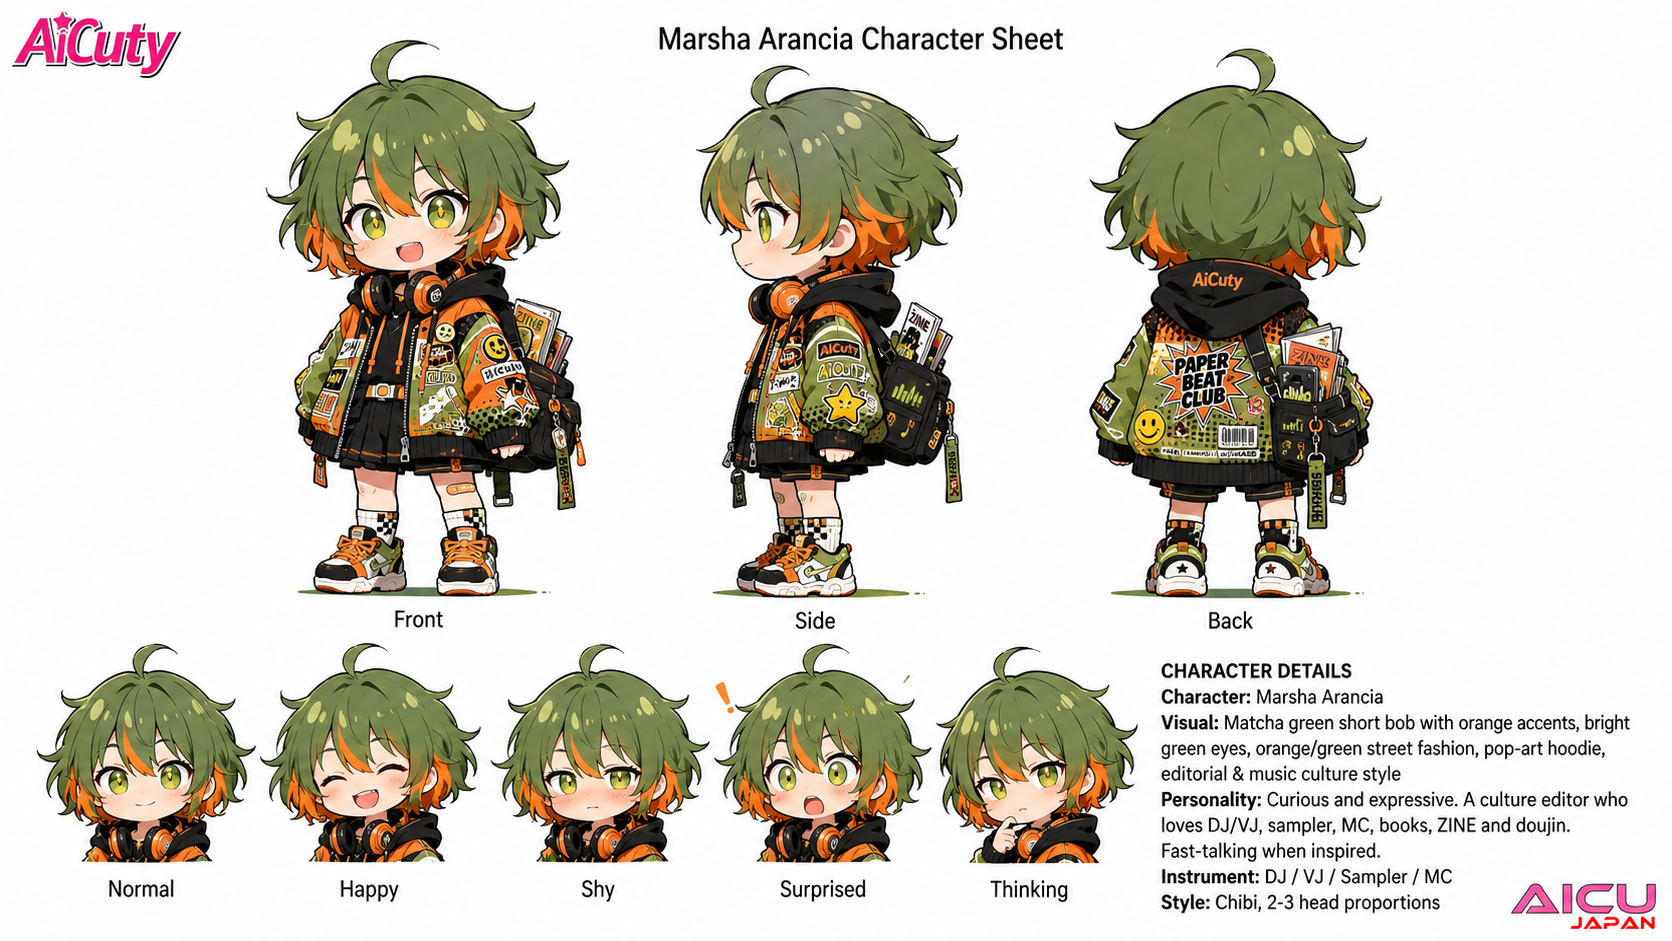
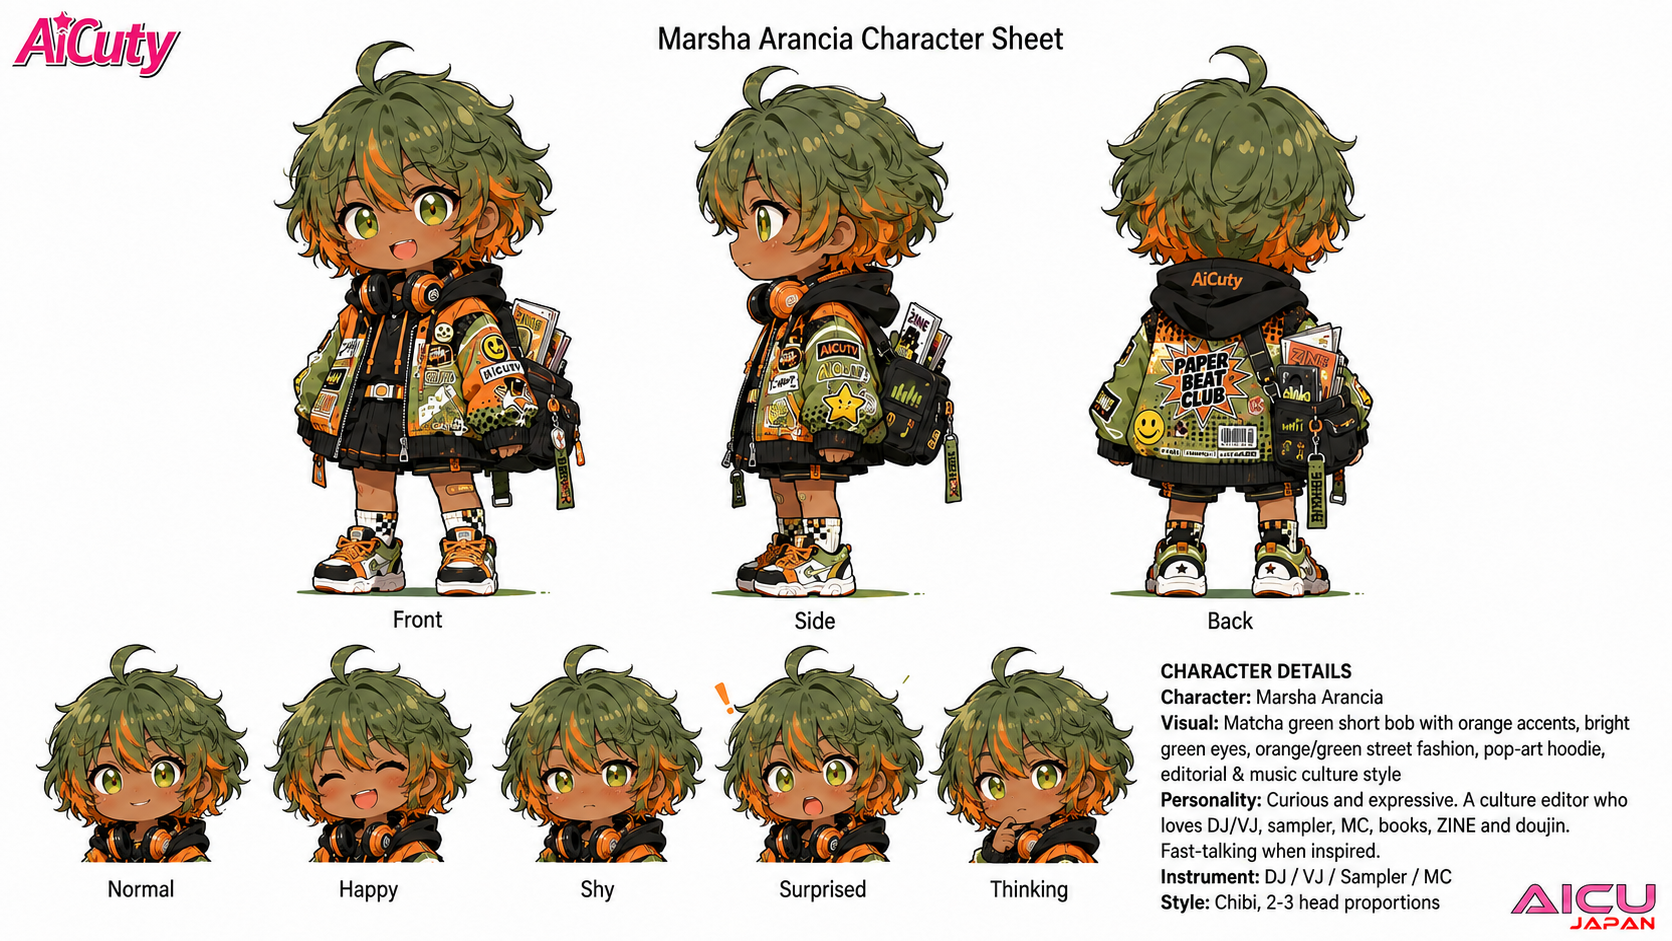
docs: Marsha の出自をイタリア系コロンビア人に更新、決め台詞を「特集」に
award-aicu/docs/marsha-arancia-design.md（Design Source of Truth）と
AiCuty 側の記述が乖離していたため同期。

設定の更新:
- 出自: 「イタリア系の家族を持つ、日本育ち」→「イタリア系コロンビア人。
  コロンビア・ボゴタ生まれ、日本育ち」。伊語由来の Arancia／Clementina／
  ARANCIA PRESS はイタリア系として維持され矛盾しない
- 決め台詞: 「それ、特集にしたいネ！」で確定（英 "Let's make it a special
  issue, hein?" ／伊 "...uno speciale, eh?" ／西 "...un especial, ¿eh?"）。
  従来の「トビラにしたいネ！」は ZINE・書籍文脈のバリエーションとして存続。
  語尾「ネ」を日本語「ね」＋伊 eh?/no?＋西 ¿eh?/¿no? の三重掛けに再定義
- 兼務を追加: AICU media 国際編集インターン／International AI Creator
  Award 公式ナビゲーター
- 外見年齢: ヤングアダルト（25歳前後）
- 公式ショートプロフィールを新文面に差し替え

画像:
- MarshaArancia.png を褐色肌の修正版に差し替え（明るい肌だった旧版を解消）
- MarshaArancia-FullBody.png（等身大シート・カラーパレット付き）を追加
- MarshaArancia2.png → MarshaArancia-Original.png にリネーム（原案受賞作）
- 重複していた MarshaAranciaCS2.png を削除
- img/AiCuty-6.png, img/AiCuty-6-peace.png（6人体制の集合ビジュアル）を追加

diff --git a/MarshaArancia/REVIEW.md b/MarshaArancia/REVIEW.md
@@ -37,8 +37,12 @@
 - [x] **コードネーム「Matcha Orange」** → **今回のみの開発用作業名と決定**（2026-08-07）。命名決定前の作業用呼称であり、メンバー共通の設定項目にはせず、既存5人への遡及付与も行わない。名称は原案作者 **抹茶オレンジ さん**（[@MATCHA_ORANGE_](https://x.com/MATCHA_ORANGE_)）に由来する。
 - [x] **クレジット** → 原案キャラクターデザインは抹茶オレンジさん（作品名「本を買った帰り道」、[C2606 ざすこ賞（道草雑草子 選）](https://cert.aicu.ai/v?id=C2606-3)受賞）として記載（2026-08-09）。
 - [x] **Marsha のちびキャラ版シート画像の帰属** → **「AICU Draft Edition」と表記する**（2026-08-10 決定）。既存5人のちびキャラ版は TORAKO さん名義だが、[MarshaArancia.png](MarshaArancia.png) は**作者確認中**のため暫定表記とする。作者判明後にクレジットを差し替えること。
+- [x] **出自 → 「イタリア系コロンビア人。コロンビア・ボゴタ生まれ、日本育ち」で確定**（2026-08-17）。従来の「イタリア系の家族を持つ、日本育ち」を更新。イタリア語由来の姓 Arancia・ミドルネーム Clementina・レーベル ARANCIA PRESS は**イタリア系**として維持され矛盾しない（南米にはイタリア系移民が多い）。正本は `award-aicu/docs/marsha-arancia-design.md`。
+- [x] **決め台詞 → 「それ、特集にしたいネ！」で確定**（2026-08-17）。フル版は「待って、今の一言、特集にしたいネ！」。英 *"Let's make it a special issue, hein?"* ／伊 *"Questo lo voglio in uno speciale, eh?"* ／西 *"Esto va en un especial, ¿eh?"*。従来の「トビラにしたいネ！」は **ZINE・書籍文脈のバリエーション**として存続（イタリア＝扉ページ発祥の由来説明もそのまま保持）。語尾「ネ」は日本語「ね」＋伊「eh?/no?」＋西「¿eh?/¿no?」の三重掛けとして再定義。
+- [x] **兼務を追加**（2026-08-17）: AICU media 国際編集インターン／International AI Creator Award 公式ナビゲーター。
+- [x] **外見年齢 → ヤングアダルト（25歳前後）**（2026-08-17、`award-aicu/docs/marsha-arancia-design.md` 由来）。
 - [x] **肌の色 → 褐色肌で確定**（2026-08-17）。原案「本を買った帰り道」および6人集合ビジュアルで褐色として描かれている。既存5人は全員明るい肌のため、AiCuty で唯一の褐色肌メンバー。**従来シートに肌の記述が一切なく（既存5人も同様）、生成のたびに揺れる状態だった**ため、ビジュアル節に明記した。
-  - ⚠ 現行の [MarshaArancia.png](MarshaArancia.png)（AICU Draft Edition のちびキャラ版）は**明るい肌で描かれており原案と相違**する。差し替え・再生成の要否を要判断。
+  - ✅ 明るい肌だった旧ちびキャラ版は、**褐色肌の修正版に差し替え済み**（2026-08-17）。等身大シート [MarshaArancia-FullBody.png](MarshaArancia-FullBody.png) と原案 [MarshaArancia-Original.png](MarshaArancia-Original.png) も追加し、全公式素材で褐色肌に統一された。
 - [x] **趣味「旅」** → **公式設定に採用**（2026-08-07）。プロフィール表に「趣味: 旅」を追加し、ショートプロフィールにも「旅」を含めてロング版と統一。
 - [ ] ショート／ロング2本立て構成の確定（※「旅」の記載差は解消済み。残る差分は『AICUマガジン』言及の有無）。
 - [ ] ロング版の「自ら編集・出版した『AICUマガジン』」は実在刊行物とのクロスオーバー設定。実誌の編集クレジットと混同されないか確認（作中設定としては AICU media 担当があるため概ね整合）。

diff --git a/docs/members.md b/docs/members.md
@@ -196,14 +196,14 @@ Mysterious and creative. An artist — gentle when speaking, but can reach a hus
 - 本・ZINE・ケーブル・サンプラーが詰まった黒いバックパック
 
 ### Personality
-音楽と書籍と旅を愛するカルチャーエディター。明るく人懐っこい行動派だが、本質的には聞き手。
+音楽と書籍と旅を愛するカルチャーエディター。**イタリア系コロンビア人**として**コロンビア・ボゴタ**に生まれ、日本で育つ。明るく人懐っこい行動派だが、本質的には聞き手。AICU media 国際編集インターン、International AI Creator Award 公式ナビゲーターを兼務。
 
-Culture editor who loves music, books and travel. Curious and expressive, but a listener at heart.
+Culture editor who loves music, books and travel. Italian-Colombian, born in Bogotá and raised in Japan. Curious and expressive, but a listener at heart.
 
 ### ① 口調
 - First person: あたし（校正・取材で集中すると「私」）
 - Member calls: エレナ、メイ、**ミナさん**、ナオ、サキ
-- 決め台詞: 「待って、今の一言、トビラにしたいネ！」
+- 決め台詞: 「それ、特集にしたいネ！」（フル版「待って、今の一言、特集にしたいネ！」／ZINE・書籍文脈では「トビラにしたいネ！」）
 - Style: テンポが速く、編集・音楽の言葉を日常会話に混ぜる
 
 ### ② 文体のクセ

diff --git a/README.md b/README.md
@@ -35,7 +35,7 @@ Saki Noire / サキ・ノワール
 動画担当
 
 Marsha Arancia / マーシャ・アランチャ
-音楽と書籍と旅を愛するカルチャーエディター
+コロンビア・ボゴタ生まれ、日本育ちのカルチャーエディター
 編集・出版・カルチャー担当
 
 ### メンバー詳細シート
@@ -123,7 +123,7 @@ AiCuty の楽曲は TuneCore 経由で各種配信サービスにて公開され
 ### Marsha Arancia
 
 カルチャーへの嗅覚が鋭い編集者。書籍・ZINE・同人誌・音楽・イベントを横断し、作品の背景にいる人や思想を紹介する。
-口調: 「それ、記事になる！」「それ、トビラにしたいネ！」
+口調: 「それ、記事になる！」「それ、特集にしたいネ！」
 得意: インタビュー, 書評・選書, ZINE・同人文化, イベント現地取材, タイトル・コピーライティング
 
 ## 公式AIデザインルール
